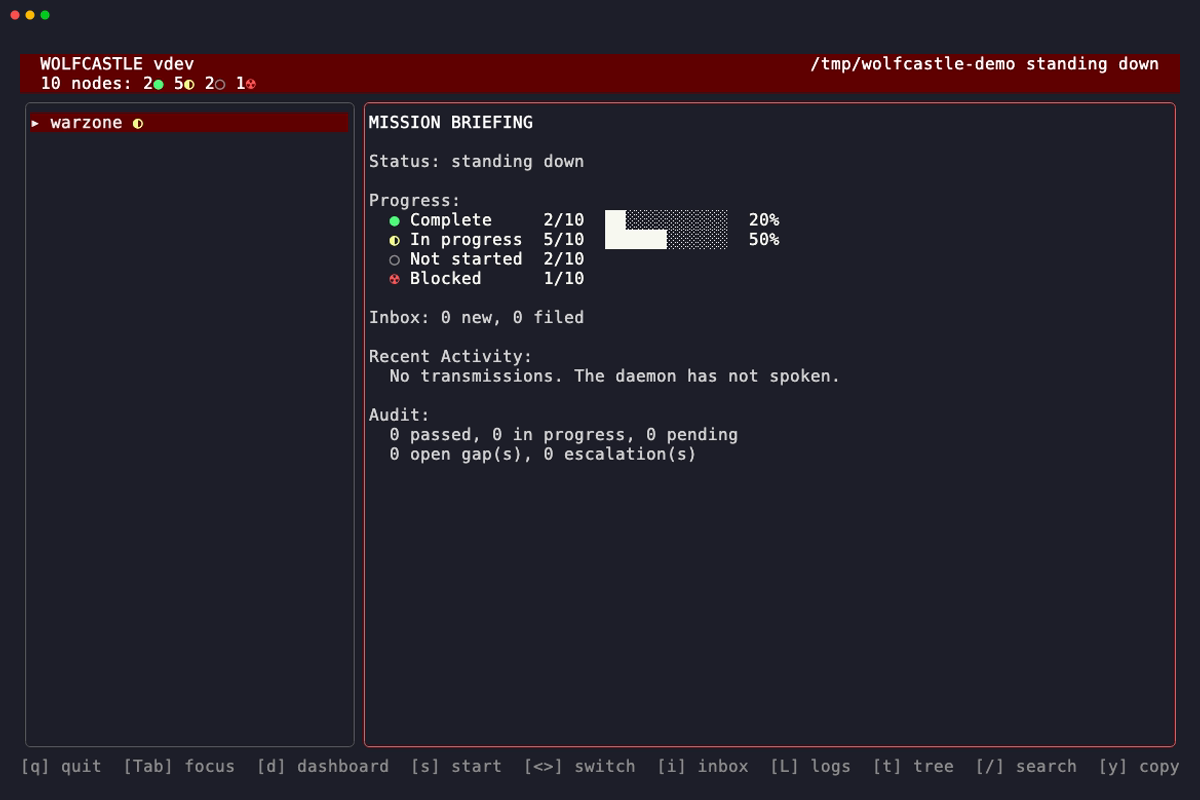
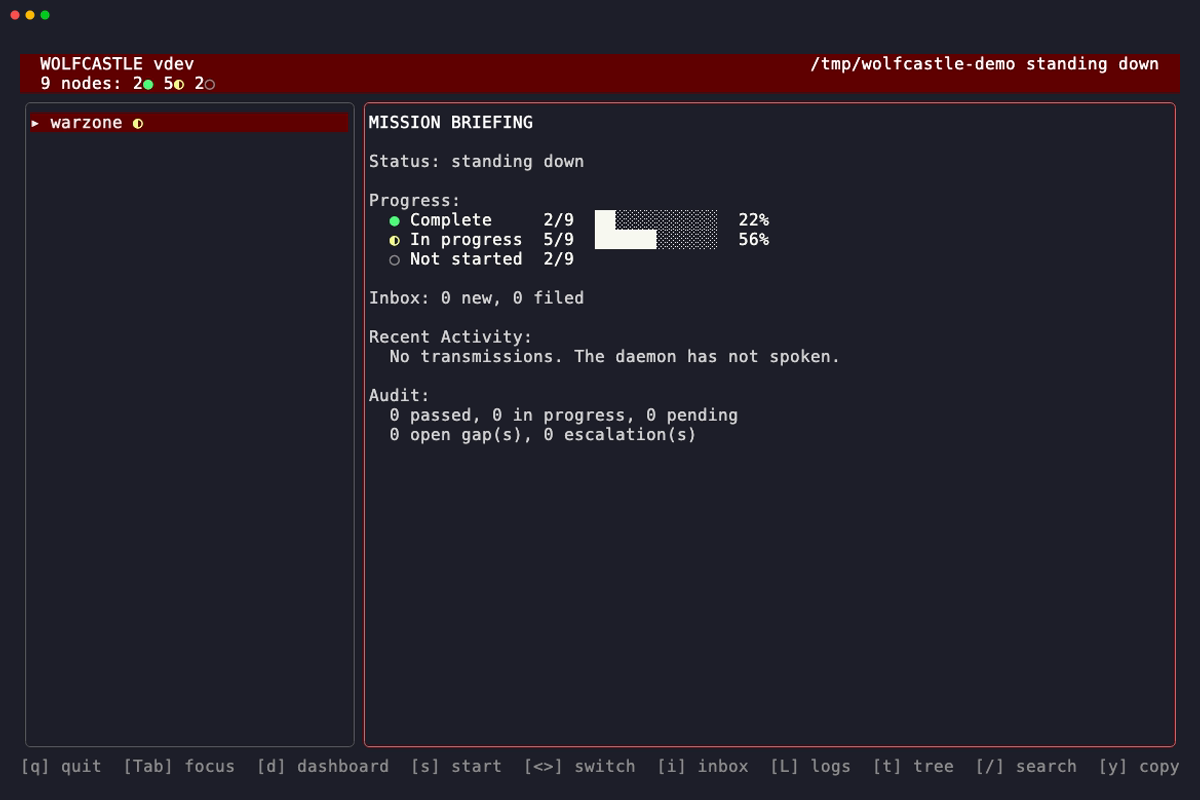
fix: hero and task-detail show real task detail, remove blocked from main tree
Fix tree navigation to expand leaf nodes and enter task rows (expand
auth, j to task row, l to open task detail). Hero now shows OAuth2
PKCE task with description, deliverables, acceptance criteria, scope.

Remove blocked payments node from main staging tree so no screenshot
shows blocked state unless relevant. Remove 4 manual placeholder
screenshots and their doc references. Task-blocked screenshot uses
dedicated staging directory.

Changed region(s): [[0.3083, 0.25, 0.7092, 0.5938], [0.0308, 0.0938, 0.2158, 0.125], [0.6167, 0.25, 0.6475, 0.3125]]

diff --git a/docs/humans/the-tui.md b/docs/humans/the-tui.md
@@ -236,8 +236,6 @@ Press `s` to open the daemon control modal. If no daemon is running, the modal o
 
 `S` (capital) stops all running daemons across all instances. Use this when you want a clean shutdown of everything.
 
-![Stop daemon](../../assets/screenshots/tui-daemon-stop.png)
-
 | Key | Action |
 |-----|--------|
 | `s` | Start/stop daemon (opens confirmation modal) |
@@ -246,8 +244,6 @@ Press `s` to open the daemon control modal. If no daemon is running, the modal o
 | `Esc` | Cancel |
 
 ## Instance Switching
-
-![Multiple instances](../../assets/screenshots/tui-multi-instance.png)
 
 When multiple Wolfcastle daemons are running (different branches, different worktrees), the header bar shows each as a tab. The active instance is highlighted.
 
@@ -278,8 +274,6 @@ Matches highlight in yellow. Ancestor nodes of matching nodes (nodes that contai
 | `N` | Previous match |
 
 ## Notifications
-
-![Toast notification](../../assets/screenshots/tui-toast.png)
 
 Toast notifications appear in the upper right corner of the terminal. They announce events: task completions, blocks, audit results, daemon state changes. Each toast auto-dismisses after 3 seconds. Up to 5 toasts can stack. Long text is front-truncated to keep the meaningful part visible, with a maximum width of 60 characters.
 
